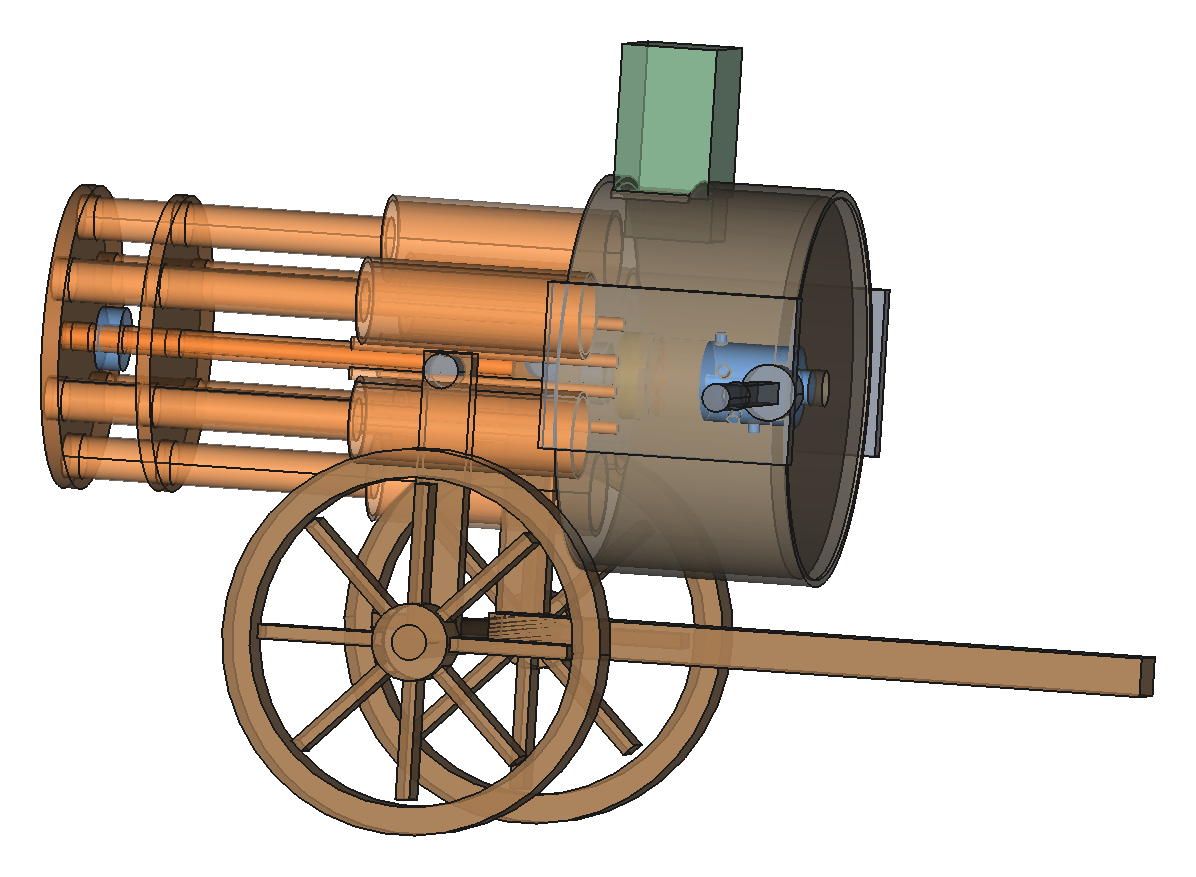
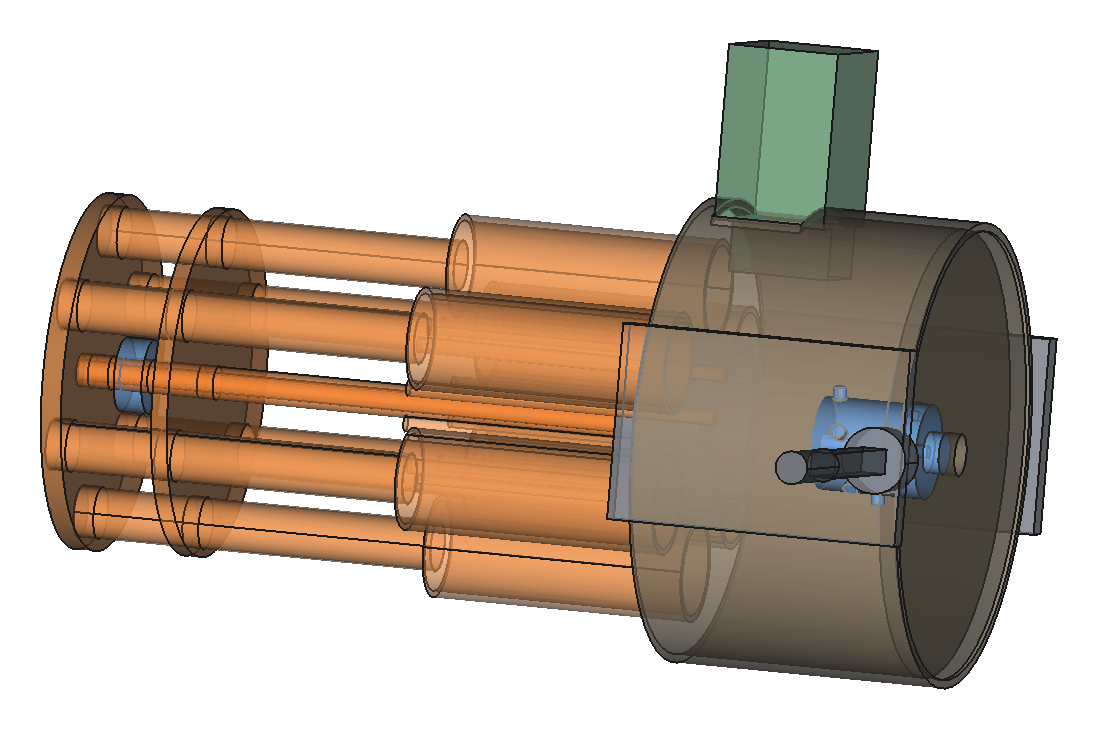
Drop the wheeled carriage from the gatling product sketch.
Report overall L×W×H and key part sizes in the generator report;
refresh product renders without the mount.

diff --git a/gatling/gun_sketch.py b/gatling/gun_sketch.py
@@ -1,15 +1,14 @@
 # -*- coding: utf-8 -*-
 """
-Gatling finished-product silhouette (not a bench).
+Gatling finished-product silhouette (gun body only — no carriage/bench).
 
-Reads as an assembled gun: 6 QEV stations on R68, front/rear spiders, breech
-casing over hub+MQR, top pellet hopper, rear hand crank, light field carriage
-(wheels + trail + trunnions). Warm = spins with the pack, cool = stays on the
-carriage. Block sketch only — no full station CAD, hoses, or chronograph.
+Assembled gun: 6 QEV stations on R68, front spiders/clamp, breech casing over
+hub+MQR, top pellet hopper, rear hand crank, side cheeks. Warm = spins with
+the pack, cool = stays fixed. Block sketch only — no full station CAD, hoses,
+chronograph, or wheeled mount.
 
 Visual cues (refs, not copies):
-  Civil War / 1862–83 Gatling — barrel cluster on shaft, breech casing, top
-  feed, rear crank, wheeled carriage with trail.
+  Civil War / 1862–83 Gatling — barrel cluster, breech casing, top feed, crank.
   Modern M134 — compact 6-barrel clamp + enclosed receiver at the breech.
   Our kit — fat-coax chambers Ø50×130, barrels Ø25×180, MQR air only.
 
@@ -91,20 +90,13 @@ z_stub1 = z_stator1 + STATOR_HUB_L
 AXLE_L = z_axle1 - z_axle0
 PACK_R = R + CH_OD / 2 + 6.0
 
-# Carriage / product frame (cool). Machine frame: +X up, +Y left (crank), +Z muzzle
-# (see ratling/fcview.py VIEW_ROT).
+# Product frame (cool). Machine frame: +X up, +Y left (crank), +Z muzzle
+# (see ratling/fcview.py VIEW_ROT). No wheeled carriage.
 CASE_OD = 2 * PACK_R + 28.0          # breech casing around rear cluster
 CASE_T = 4.0
 HOPPER_W, HOPPER_D, HOPPER_H = 70.0, 55.0, 85.0
 CRANK_ARM, CRANK_GRIP = 100.0, 55.0
-WHEEL_OD, WHEEL_T = 220.0, 28.0
-TRAIL_L, TRAIL_W, TRAIL_T = 380.0, 36.0, 22.0
 CHEEK_T = 12.0
-
-z_carriage = (z_ch0 + z_ch1) / 2
-# Ground is −X; carriage axle across ±Y.
-x_axle_car = -(PACK_R + 55.0)
-x_ground = x_axle_car - WHEEL_OD / 2
 
 V = App.Vector
 
@@ -193,7 +185,7 @@ rear_disk = G.cyl(CASE_OD, z_stub1, z_stub1 + 8.0).cut(
     G.cyl(STATOR_HUB_OD + 0.5, z_stub1 - 1, z_stub1 + 10))
 casing = casing.fuse(rear_disk).removeSplitter()
 
-# Cheek plates on ±Y + trunnion pins (carry the gun on the carriage).
+# Side cheeks on ±Y (receiver frame only — no trunnions / no carriage).
 cheek_z0 = z_case0 - 5.0
 cheek_z1 = z_case1 + 5.0
 cheeks = []
@@ -201,10 +193,7 @@ for sy in (-1.0, 1.0):
     y0 = (-CASE_OD / 2 - CHEEK_T - 2.0) if sy < 0 else (CASE_OD / 2 + 2.0)
     cheek = Part.makeBox(CASE_OD * 0.42, CHEEK_T, cheek_z1 - cheek_z0,
                          V(-CASE_OD * 0.18, y0, cheek_z0))
-    pin = Part.makeCylinder(10.0, 20.0,
-                            V(0, y0 + (CHEEK_T if sy > 0 else 0), z_carriage),
-                            V(0, sy, 0))
-    cheeks.append(cheek.fuse(pin))
+    cheeks.append(cheek)
 cheeks_s = G.fuse_all(cheeks).removeSplitter()
 
 # Top hopper on +X (gravity feed — Civil War cue; pellets for us).
@@ -225,45 +214,24 @@ grip = Part.makeCylinder(8.0, CRANK_GRIP,
                          V(0, 1, 0))
 crank = crank_hub.fuse(arm).fuse(grip).removeSplitter()
 
-# Field carriage: axle along Y, wheels at ±Y, trail aft (+Z).
-track = CASE_OD / 2 + 55.0
-car_axle = Part.makeCylinder(10.0, 2 * track + 40.0,
-                             V(x_axle_car, -track - 20.0, z_carriage),
-                             V(0, 1, 0))
-wheels = []
-for sy in (-1.0, 1.0):
-    wy = sy * track
-    tire = Part.makeCylinder(WHEEL_OD / 2, WHEEL_T,
-                             V(x_axle_car, wy - sy * WHEEL_T / 2, z_carriage),
-                             V(0, sy, 0))
-    tire = tire.cut(Part.makeCylinder(
-        WHEEL_OD / 2 - 16.0, WHEEL_T + 4,
-        V(x_axle_car, wy - sy * (WHEEL_T / 2 + 1), z_carriage), V(0, sy, 0)))
-    hub_w = Part.makeCylinder(22.0, WHEEL_T + 6,
-                              V(x_axle_car, wy - sy * (WHEEL_T / 2 + 1), z_carriage),
-                              V(0, sy, 0))
-    spokes = []
-    for ang in (0.0, 45.0, 90.0, 135.0):
-        sp = Part.makeBox(WHEEL_OD - 40.0, WHEEL_T - 6.0, 8.0,
-                          V(x_axle_car - (WHEEL_OD - 40.0) / 2,
-                            wy - sy * (WHEEL_T / 2 - 3),
-                            z_carriage - 4.0))
-        sp.rotate(V(x_axle_car, wy, z_carriage), V(0, 1, 0), ang)
-        spokes.append(sp)
-    wheels.append(G.fuse_all([tire, hub_w] + spokes))
-trail = Part.makeBox(TRAIL_T, TRAIL_W, TRAIL_L,
-                     V(x_axle_car - 8.0, -TRAIL_W / 2, z_carriage + 10.0))
-uprights = []
-for sy in (-1.0, 1.0):
-    up = Part.makeBox(abs(x_axle_car) + 10.0, 16.0, 28.0,
-                      V(x_axle_car,
-                        sy * (CASE_OD / 2 + 8.0) - 8.0,
-                        z_carriage - 14.0))
-    uprights.append(up)
-carriage = Part.makeCompound([car_axle, trail] + uprights + wheels)
-
 cheeks_s = cheeks_s.cut(pack).removeSplitter()
 casing = casing.cut(pack).removeSplitter()
+
+# Overall gun body (no carriage) for bounding-box sizes.
+gun = Part.makeCompound([
+    pack, front_spider, front_clamp, axle, hub, rotor, stator,
+    brg_f, brg_r, casing, hopper, crank, cheeks_s,
+])
+bb = gun.BoundBox
+# Machine frame: +X up, +Y left, +Z muzzle → length=Z, width=Y, height=X.
+gun_L = bb.ZLength
+gun_W = bb.YLength
+gun_H = bb.XLength
+pack_L = z_qev_aft - z_muzzle
+case_L = z_case1 - z_case0
+hop_bb = hopper.BoundBox
+crank_bb = crank.BoundBox
+pack_OD = 2 * (R + CH_OD / 2)
 
 # ---------------------------------------------------------------- checks
 checks = [
@@ -273,27 +241,33 @@ checks = [
     ("casing solid", G.single_solid(casing)),
     ("hopper solid", G.single_solid(hopper)),
     ("crank solid", G.single_solid(crank)),
-    ("carriage present", carriage.Volume > 1e5),
+    ("cheeks present", cheeks_s.Volume > 1e4),
     ("axle spans pack (%.0f)" % AXLE_L, AXLE_L >= (z_qev_aft - z_muzzle)),
     ("axle out of MQR bore",
      axle.common(G.cyl(THROUGH + 0.5, z_rotor0, z_stub1)).Volume < 1.0),
     ("pack clears casing (vol %.1f)" % pack.common(casing).Volume,
      pack.common(casing).Volume < 1.0),
-    ("pack clears carriage (vol %.1f)" % pack.common(carriage).Volume,
-     pack.common(carriage).Volume < 1.0),
     ("hub/rotor gap", abs((z_rotor0 - z_hub1) - MQR_GAP) < 1e-6),
 ]
 report = [
     NAME,
-    "  sketch                 : finished gatling product (not a bench)",
+    "  sketch                 : finished gatling body (no carriage / no bench)",
     "  rotates (warm)         : stations, spiders/clamp, axle, hub, MQR rotor",
-    "  fixed (cool)           : breech casing, hopper, crank, cheeks, carriage, MQR stator",
+    "  fixed (cool)           : breech casing, hopper, crank, cheeks, MQR stator",
     "  pack                   : 6@R%.0f, barrel Ø%.0f×%.0f + chamber Ø%.0f×%.0f"
     % (R, BARREL_OD, BARREL_L, CH_OD, CH_L),
     "  axle                   : Ø%.0f/%.0f × %.0f mm (nose→hub)" % (AXLE_OD, AXLE_ID, AXLE_L),
-    "  product cues           : casing + hopper + crank + wheeled trail carriage",
-    "  refs                   : 1862–83 Gatling carriage/feed/crank; M134 6-barrel clamp",
-    "  not drawn              : hoses, AirTAC detail, chronograph, full station CAD",
+    "  overall L×W×H          : %.0f × %.0f × %.0f mm (Z × Y × X)"
+    % (gun_L, gun_W, gun_H),
+    "  pack length / OD       : %.0f mm / Ø%.0f mm" % (pack_L, pack_OD),
+    "  breech casing          : L %.0f × Ø%.0f mm" % (case_L, CASE_OD),
+    "  hopper bbox            : %.0f × %.0f × %.0f mm (X×Y×Z)"
+    % (hop_bb.XLength, hop_bb.YLength, hop_bb.ZLength),
+    "  crank bbox             : %.0f × %.0f × %.0f mm (X×Y×Z)"
+    % (crank_bb.XLength, crank_bb.YLength, crank_bb.ZLength),
+    "  product cues           : casing + hopper + crank (no wheeled mount)",
+    "  refs                   : 1862–83 Gatling feed/crank/casing; M134 clamp",
+    "  not drawn              : carriage, hoses, AirTAC detail, full station CAD",
 ]
 report += ["  [%s] %s" % ("OK " if ok else "FAIL", n) for n, ok in checks]
 print("\n".join(report))
@@ -303,8 +277,7 @@ FV.STYLES["spin_hub"] = ((0.85, 0.70, 0.20), 20)
 FV.STYLES["spin_st"] = ((0.90, 0.55, 0.28), 55)
 FV.STYLES["spin_plate"] = ((0.80, 0.45, 0.18), 30)
 FV.STYLES["fixed"] = ((0.40, 0.62, 0.88), 35)
-FV.STYLES["fixed_case"] = ((0.55, 0.48, 0.38), 40)   # bronze-ish breech casing
-FV.STYLES["fixed_wood"] = ((0.55, 0.38, 0.22), 25)  # trail / carriage wood
+FV.STYLES["fixed_case"] = ((0.55, 0.48, 0.38), 40)
 FV.STYLES["fixed_iron"] = ((0.45, 0.48, 0.52), 30)
 FV.STYLES["fixed_hop"] = ((0.35, 0.55, 0.40), 35)
 
@@ -324,14 +297,13 @@ sc.add("Fixed", "Breech_casing", casing, "fixed_case")
 sc.add("Fixed", "Hopper", hopper, "fixed_hop")
 sc.add("Fixed", "Crank", crank, "fixed_iron")
 sc.add("Fixed", "Cheeks", cheeks_s, "fixed_iron")
-sc.add("Fixed", "Carriage", carriage, "fixed_wood")
 
 for text, pos in [
     ("6 стволов R%.0f (QEV)" % R, (30, R + 50, z_ch0)),
     ("бункер пульки", (hopper_x0 + HOPPER_H + 15, 0, z_hub0 + 20)),
     ("казённый кожух + MQR", (0, CASE_OD / 2 + 35, (z_case0 + z_case1) / 2)),
     ("рукоять", (20, CASE_OD / 2 + CRANK_ARM + 30, crank_z)),
-    ("лафет", (x_ground + 30, 0, z_carriage + TRAIL_L * 0.55)),
+    ("L≈%.0f мм" % gun_L, (CASE_OD / 2 + 20, 0, gun_L / 2)),
     ("дуло →", (20, R + 25, 30)),
 ]:
     sc.label("Labels", text, pos)
@@ -354,8 +326,8 @@ def write(shape, name):
 write(pack, "stations")
 for n, s in (("axle", axle), ("hub", hub), ("mqr_rotor", rotor), ("mqr_stator", stator),
              ("breech_casing", casing), ("hopper", hopper), ("crank", crank),
-             ("carriage", carriage), ("cheeks", cheeks_s),
-             ("spider_front", front_spider), ("clamp_front", front_clamp)):
+             ("cheeks", cheeks_s), ("spider_front", front_spider),
+             ("clamp_front", front_clamp)):
     write(s, n)
 with open(os.path.join(OUT_DIR, NAME + "_report.txt"), "w") as f:
     f.write("\n".join(report) + "\n")

diff --git a/docs/gatling.md b/docs/gatling.md
@@ -13,7 +13,7 @@
 - [`gatling/mqr_axis_sketch.py`](../gatling/mqr_axis_sketch.py) — ось + ступица + MQR на
   двух стойках;
 - [`gatling/gun_sketch.py`](../gatling/gun_sketch.py) — **силуэт готового изделия**
-  (6@R68, казённый кожух, бункер, рукоять, колёсный лафет);
+  (6@R68, казённый кожух, бункер, рукоять; без лафета);
 - [`gatling/pack_sketch.py`](../gatling/pack_sketch.py) — технабросок пакета/оси
   (не вид изделия).
 
@@ -67,13 +67,13 @@
     3D-блоки оси: [`gatling/mqr_axis_sketch.py`](../gatling/mqr_axis_sketch.py) — вал на
     двух маленьких стойках + ступица + ротор (тёплый); статор + пластина (холодный).
     Опора пакета — подшипники, не MQR.
-    Силуэт **готового изделия**: [`gatling/gun_sketch.py`](../gatling/gun_sketch.py) —
+    Силуэт **готового изделия** (без лафета): [`gatling/gun_sketch.py`](../gatling/gun_sketch.py) —
     6 станций на R68 (ствол Ø25×180 + камера Ø50×130), вал на всю длину, передние
-    плиты, казённый кожух над ступицей/MQR, бункер пульки сверху, рукоять сзади,
-    колёсный лафет с хоботом (опора = подшипники → лафет, не MQR). Референсы вида:
-    Gatling 1862–83 (лафет, бункер, рукоять, кожух) и современный M134 (6 стволов,
-    передний хомут, закрытый ресивер). Технабросок пакета без лафета —
-    [`gatling/pack_sketch.py`](../gatling/pack_sketch.py).
+    плиты, казённый кожух над ступицей/MQR, бункер пульки сверху, рукоять сзади.
+    Габарит корпуса ≈ **454 × 400 × 302 мм** (Д×Ш×В); пакет L 318 / Ø186; кожух
+    L 135 / Ø226; бункер ≈ 110×70×55; рукоять вылет ≈ 165 мм. Референсы вида:
+    Gatling 1862–83 (бункер, рукоять, кожух) и M134 (6 стволов, хомут, ресивер).
+    Технабросок пакета — [`gatling/pack_sketch.py`](../gatling/pack_sketch.py).
 
 ![MQR6 на оси пакета](img/gatling_mqr_axis.svg)
 
@@ -99,7 +99,7 @@
 - Шланги M5 ротор → R каждого AirTAC (после обмера приехавшего MQR).
 - Обвязка редуктора и стойка хронографа на breech-стенде.
 - Детали станций внутри пакета (сейчас только силуэт ствол+камера).
-- Настоящий лафет/бункер под печать (сейчас блоки на `gun_sketch`).
+- Лафет/станок и бункер под печать (сейчас только блоки корпуса на `gun_sketch`).
 
 ## Запуск
 

diff --git a/docs/status.md b/docs/status.md
@@ -84,7 +84,7 @@
 | `linear_breech.py` | **живое** (эскиз) | Станция затвора: fat coax на 2 рельсах Ø8 × 1, два хомута ствола (казённик + насадка), носовые втулки на QEV, **жёлоб на передней крышке** (одна печать с крышкой; борта ниже экватора, толкает кончик фиттинга), ход ≈ 66 мм; AirTAC M3R110 в люльке (шток −Z), L-палец жмёт **только на закрытии**. `exec` fat coax как библиотека. Выгрузка `exports/gatling_linear_breech/`. |
 | `linear_breech_bench.py` | **живое** (эскиз) | Ручной стенд одной станции: две маленькие опоры под рельсы (рельсы — балка, без длинной плиты), T-ручка на салазках. `exec` linear_breech как библиотека. Выгрузка `exports/gatling_linear_breech_bench/`. Плиты: `gatling/linear_breech_bench_plates.sh` → PLA airtight 0.4 + PLA 0.8. |
 | `mqr_axis_sketch.py` | **живое** (эскиз) | Грубая 3D-сборка оси: вал на 2 маленьких стойках + ступица + ротор MQR (крутится) / статор + пластина (стоит). MQR не в силовой цепи. Выгрузка `exports/gatling_mqr_axis_sketch/`. |
-| `gun_sketch.py` | **живое** (эскиз) | Силуэт **готового** гатлинга: 6@R68, казённый кожух, бункер, рукоять, колёсный лафет. Не стенд. Выгрузка `exports/gatling_gun_sketch/`; `docs/img/gatling_gun_product_3d.png`. |
+| `gun_sketch.py` | **живое** (эскиз) | Силуэт **готового** корпуса: 6@R68, кожух, бункер, рукоять; **без лафета**. Габарит ≈ 454×400×302 мм. Выгрузка `exports/gatling_gun_sketch/`; `docs/img/gatling_gun_product_3d.png`. |
 | `pack_sketch.py` | **живое** (эскиз) | Технабросок пакета/оси (без лафета как изделия). Выгрузка `exports/gatling_pack_sketch/`. |
 | [`docs/gatling.md`](gatling.md) | **живое** | Промежуточные решения и запуск. Труба 50×1.5 и коллектор **MQR6** заказаны 2026-11-12. Изделие: `gatling/gun_sketch.py`; ось: `mqr_axis_sketch.py`. |
 
